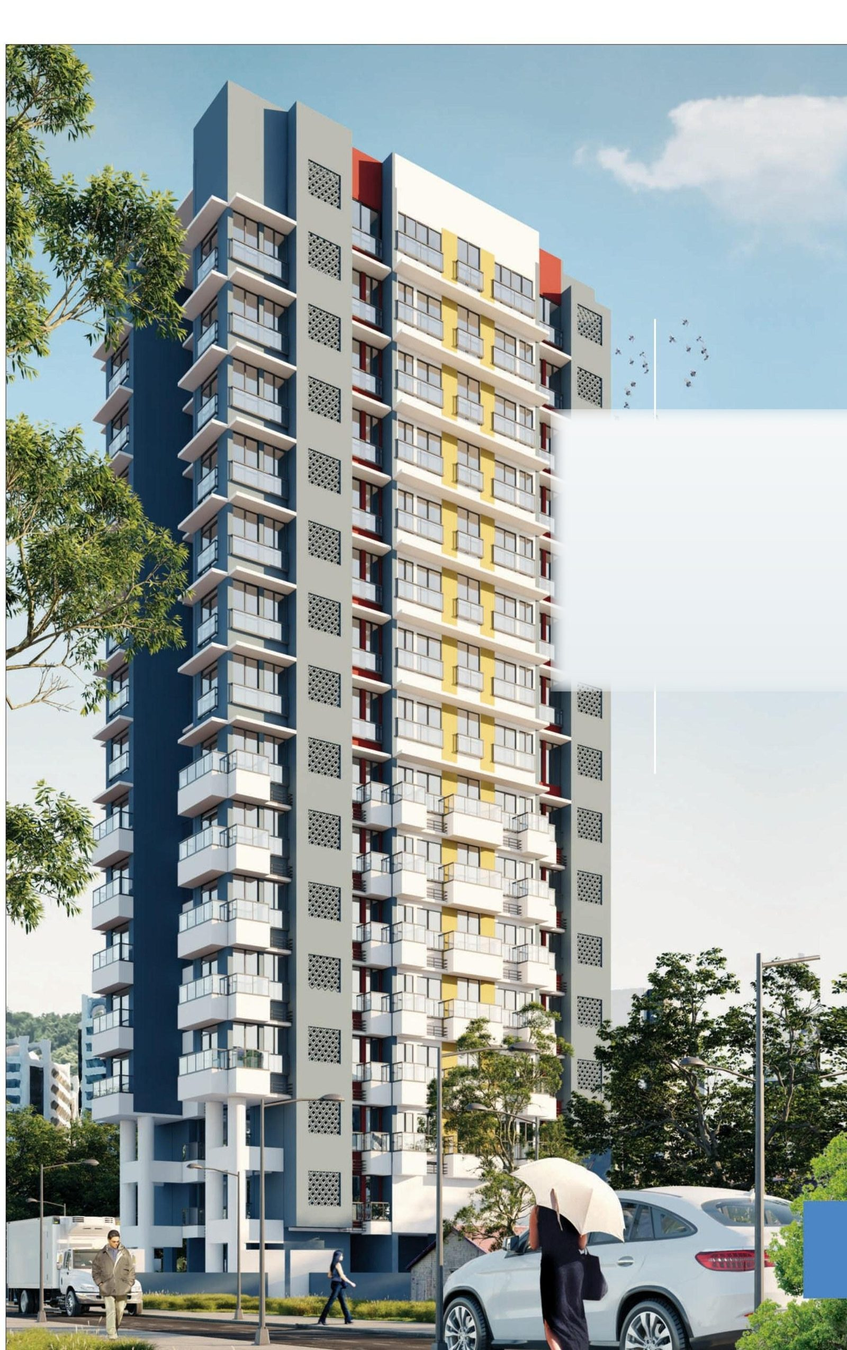
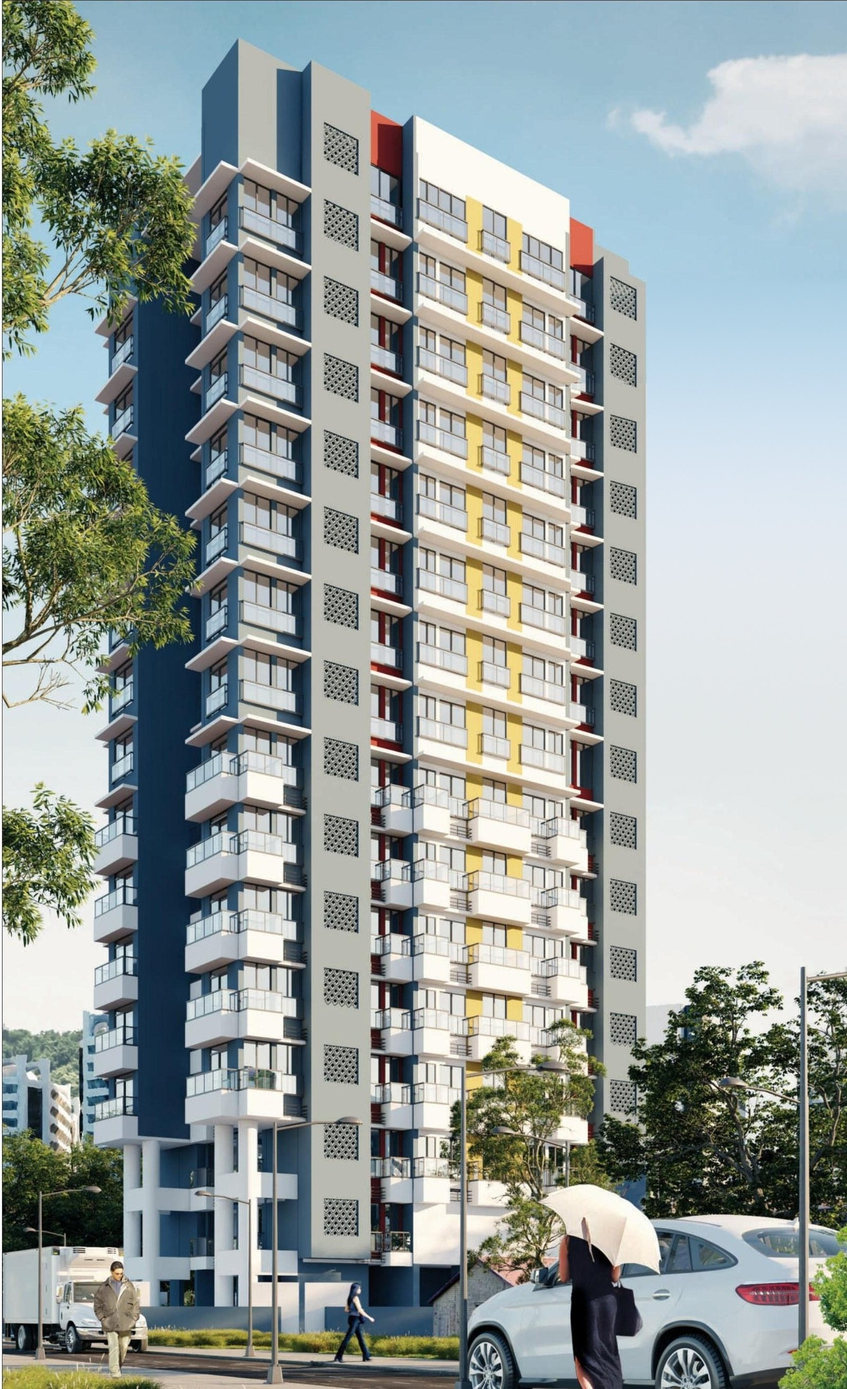
Hero: repaired catalogue render (white patch, line, birds removed), artistic-impression note
Claude-Session: https://claude.ai/code/session_01TxX64e1mGaJi81B751weWZ

diff --git a/app/(site)/page.tsx b/app/(site)/page.tsx
@@ -46,6 +46,7 @@ export default async function Home() {
               <img src="/img/tower-lg.jpg" alt="Architectural render of the Empire Gold tower on Dockyard Road, Mazgaon" fetchPriority="high" />
               <span className="tag t2">Floors 8–15 · Phase II</span>
               <span className="tag t1">Floors 1–7 · Delivered</span>
+              <span className="ai-note">Artistic impression</span>
             </div>
           </div>
         </section>

diff --git a/app/(site)/site.css b/app/(site)/site.css
@@ -164,3 +164,6 @@ img{max-width:100%;display:block}
 .ftr a{color:#D8D2C4}
 .float{position:fixed;right:16px;bottom:16px;z-index:30;box-shadow:0 8px 24px rgba(0,0,0,.25)}
 @media(min-width:861px){.float{display:none}}
+
+.hero-pic{position:relative}
+.hero-pic .ai-note{position:absolute;right:10px;bottom:8px;font-size:11px;letter-spacing:.04em;color:#fff;opacity:.85;text-shadow:0 1px 3px rgba(0,0,0,.6)}
